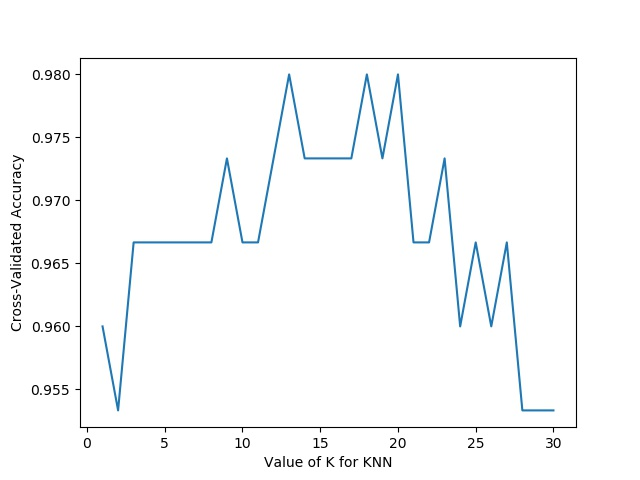
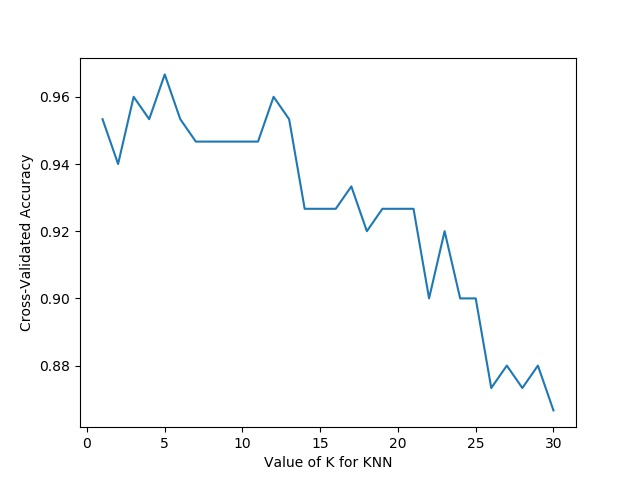
做交叉验证的时候 训练集选错了 应该是X_Poly

diff --git a/Stage_2/knn_iris.py b/Stage_2/knn_iris.py
@@ -57,7 +57,7 @@ k_scores = []
 for k in k_range:
     knn = KNeighborsClassifier(n_neighbors=k)
 ##    loss = -cross_val_score(knn, X, y, cv=10, scoring='mean_squared_error') # for regression
-    scores = cross_val_score(knn, X, Y, cv=10, scoring='accuracy') # for classification
+    scores = cross_val_score(knn, X_Poly, Y, cv=10, scoring='accuracy') # for classification
     k_scores.append(scores.mean())
 
 plt.plot(k_range, k_scores)
